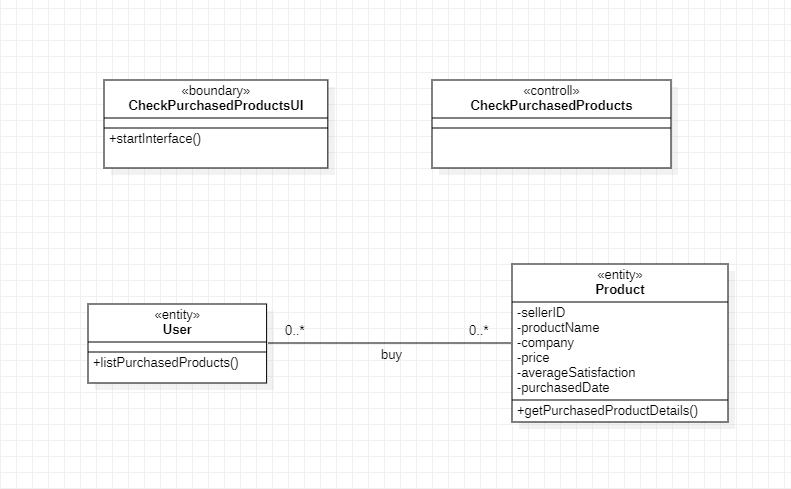
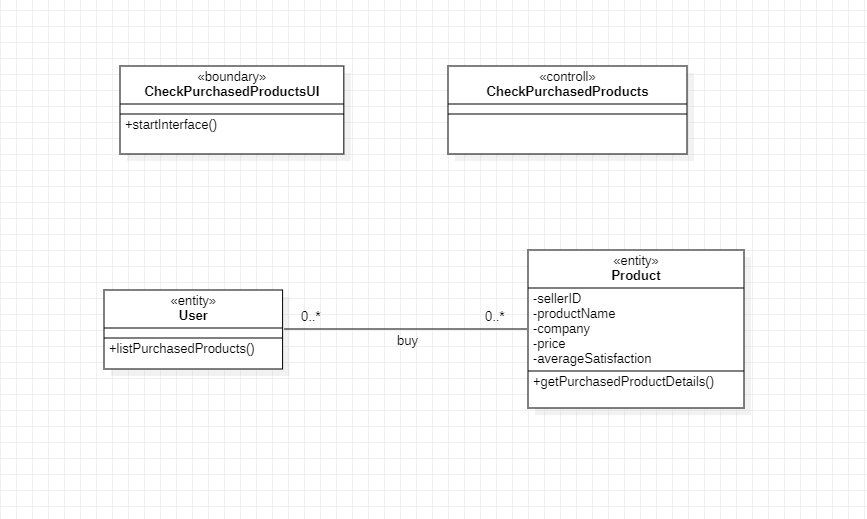
Delete purchaseDate attriute from class diagram

diff --git a/dayeon/hw2/README.md b/dayeon/hw2/README.md
@@ -14,4 +14,4 @@
 
 ## 📌 Use Case Class Diagram
 
-<img width="590" alt="check_purchased_list_class_diagram" src="https://user-images.githubusercontent.com/62105312/168620146-f1ed4df0-0385-4fc0-8745-e26da9189b0a.png">
+<img width="590" alt="check_purchased_list_class_diagram" src="https://user-images.githubusercontent.com/62105312/168971148-68d77c31-90b2-497d-8c91-47722cb5ede6.png">
